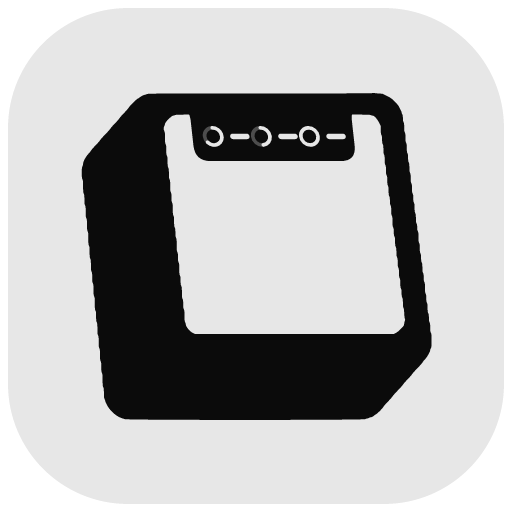
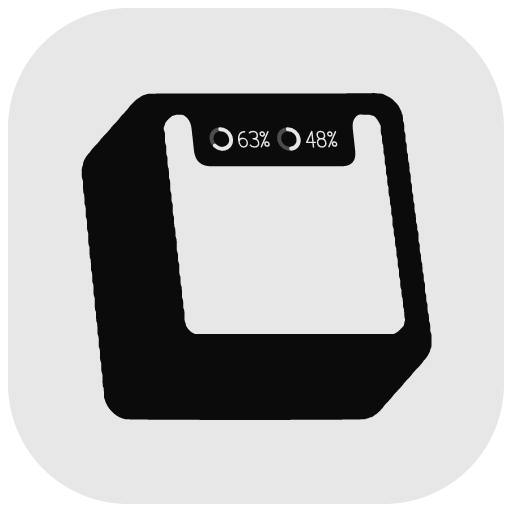
feat: notch shows two rings with real 63%/48% numbers; smooth flare into the face edge

diff --git a/src/lib/markShapes.ts b/src/lib/markShapes.ts
@@ -3,33 +3,35 @@ export const MARK = {
   "BODY_PATH": "M 456.4 333.7 C 456.1 333.9, 420.4 334, 370 334 C 285 334, 284.1 334, 283 334.5 C 282.4 334.8, 281.7 335, 281.5 335 C 280.8 335, 278.6 336.1, 277.5 337 C 277 337.4, 276.3 337.9, 275.8 338.1 C 274.7 338.7, 269.6 343.8, 269 345 C 268.7 345.5, 267.2 347.3, 265.5 349 C 263.8 350.7, 262.3 352.5, 262 353 C 261.7 353.5, 260.2 355.3, 258.5 357 C 256.8 358.7, 255.3 360.5, 255 361 C 254.7 361.5, 252.9 363.6, 251 365.5 C 249.1 367.4, 247.3 369.5, 247 370 C 246.7 370.5, 245.2 372.3, 243.5 374 C 241.8 375.7, 240.3 377.5, 240 378 C 239.8 378.5, 238.9 379.6, 238 380.5 C 236.1 382.5, 234 386.4, 234 388 C 234 388.6, 233.8 389.5, 233.5 390 C 233.1 390.9, 233 391.5, 233 395 C 233 398.5, 233.1 399.1, 233.5 400 C 233.9 400.9, 234 401.5, 234 405.5 C 234 409.5, 234.1 410.1, 234.5 411 C 234.9 411.8, 235 412.5, 235 415.5 C 235 418.5, 235.1 419.2, 235.5 420 C 235.9 420.9, 236 421.5, 236 425 C 236 428.5, 236.1 429.1, 236.5 430 C 236.9 430.9, 237 431.5, 237 435 C 237 438.5, 237.1 439.1, 237.5 440 C 237.9 440.9, 238 441.5, 238 445.5 C 238 449.5, 238.1 450.1, 238.5 451 C 238.9 451.9, 239 452.5, 239 456 C 239 459.5, 239.1 460.1, 239.5 461 C 239.9 461.9, 240 462.5, 240 466 C 240 469.5, 240.1 470.1, 240.5 471 C 240.9 471.8, 241 472.5, 241 475.5 C 241 478.5, 241.1 479.2, 241.5 480 C 241.9 480.9, 242 481.5, 242 485 C 242 488.5, 242.1 489.1, 242.5 490 C 242.9 490.9, 243 491.5, 243 495.5 C 243 499.5, 243.1 500.1, 243.5 501 C 243.9 501.8, 244 502.5, 244 505.5 C 244 508.5, 244.1 509.2, 244.5 510 C 244.9 510.9, 245 511.5, 245 515 C 245 518.5, 245.1 519.1, 245.5 520 C 245.9 520.9, 246 521.5, 246 525 C 246 528.5, 246.1 529.1, 246.5 530 C 246.9 530.9, 247 531.5, 247 535 C 247 538.5, 247.1 539.1, 247.5 540 C 247.9 540.8, 248 541.5, 248 544.5 C 248 547.5, 248.1 548.2, 248.5 549 C 248.9 549.9, 249 550.5, 249 554.5 C 249 558.5, 249.1 559.1, 249.5 560 C 249.9 560.8, 250 561.5, 250 564.5 C 250 567.5, 250.1 568.2, 250.5 569 C 250.8 569.5, 251 570.2, 251 570.5 C 251 570.8, 251.6 572.1, 252.3 573.5 C 254.1 577.1, 257.9 580.9, 261.5 582.8 C 262.9 583.4, 264.2 584, 264.5 584 C 264.7 584, 265.4 584.2, 266 584.5 C 267.8 585.3, 449.2 585.3, 451 584.5 C 451.6 584.2, 452.3 584, 452.5 584 C 452.8 584, 453.5 583.8, 454 583.5 C 454.5 583.2, 455.2 583, 455.6 583 C 455.9 583, 456.7 582.6, 457.3 582.2 C 457.9 581.7, 458.7 581.1, 459.1 580.9 C 460.3 580.3, 464.4 576.2, 465 575 C 465.3 574.5, 466.8 572.7, 468.5 571 C 470.2 569.3, 471.7 567.5, 472 567 C 472.3 566.5, 474.1 564.4, 476 562.5 C 477.9 560.6, 479.7 558.5, 480 558 C 480.3 557.5, 481.8 555.7, 483.5 554 C 485.2 552.3, 486.7 550.5, 487 550 C 487.3 549.5, 489.1 547.4, 491 545.5 C 492.9 543.6, 494.7 541.5, 495 541 C 495.2 540.5, 496.1 539.4, 497 538.5 C 498.6 536.8, 501 532.6, 501 531.5 C 501 531.2, 501.2 530.5, 501.5 530 C 502 529.1, 502 528.5, 502 524 C 502 519.5, 502 518.9, 501.5 518 C 501.1 517.2, 501 516.5, 501 514 C 501 511.5, 500.9 510.8, 500.5 510 C 500.1 509.2, 500 508.5, 500 506.5 C 500 504.5, 499.9 503.8, 499.5 503 C 499.1 502.2, 499 501.5, 499 499 C 499 496.5, 498.9 495.8, 498.5 495 C 498.1 494.2, 498 493.5, 498 491.5 C 498 489.5, 497.9 488.8, 497.5 488 C 497.1 487.2, 497 486.5, 497 483.5 C 497 480.5, 496.9 479.8, 496.5 479 C 496.1 478.2, 496 477.5, 496 475.5 C 496 473.5, 495.9 472.8, 495.5 472 C 495.1 471.2, 495 470.5, 495 468 C 495 465.5, 494.9 464.8, 494.5 464 C 494.1 463.2, 494 462.5, 494 460.5 C 494 458.5, 493.9 457.8, 493.5 457 C 493.1 456.2, 493 455.5, 493 453 C 493 450.5, 492.9 449.8, 492.5 449 C 492.1 448.2, 492 447.5, 492 444.5 C 492 441.5, 491.9 440.8, 491.5 440 C 491.1 439.3, 491 438.5, 491 437 C 491 435.5, 490.9 434.7, 490.5 434 C 490.1 433.2, 490 432.5, 490 430 C 490 427.5, 489.9 426.8, 489.5 426 C 489.1 425.2, 489 424.5, 489 422 C 489 419.5, 488.9 418.8, 488.5 418 C 488.1 417.2, 488 416.5, 488 414.5 C 488 412.5, 487.9 411.8, 487.5 411 C 487.1 410.2, 487 409.5, 487 407 C 487 404.5, 486.9 403.8, 486.5 403 C 486.1 402.2, 486 401.5, 486 399 C 486 396.5, 485.9 395.8, 485.5 395 C 485.1 394.2, 485 393.5, 485 391 C 485 388.5, 484.9 387.8, 484.5 387 C 484.1 386.2, 484 385.5, 484 383.5 C 484 381.5, 483.9 380.8, 483.5 380 C 483.1 379.2, 483 378.5, 483 376 C 483 373.5, 482.9 372.8, 482.5 372 C 482.1 371.2, 482 370.5, 482 368 C 482 365.5, 481.9 364.8, 481.5 364 C 481.1 363.2, 481 362.5, 481 360 C 481 357.5, 480.9 356.8, 480.5 356 C 480.1 355.3, 480 354.5, 480 353 C 480 351.5, 479.9 350.7, 479.5 350 C 479.2 349.5, 479 348.8, 479 348.5 C 479 348.2, 478.4 346.9, 477.7 345.5 C 476.6 343.3, 476.2 342.7, 473.7 340.2 C 471.1 337.6, 470.7 337.4, 467.6 335.8 L 464.4 334.2 461.5 334 C 459.9 333.9, 458.2 333.7, 457.8 333.6 C 457.3 333.6, 456.7 333.6, 456.4 333.7",
   "FACE_PATH": "M 305 350.5 C 304.4 350.8, 303.7 351, 303.4 351 C 302.1 351, 297 356.1, 297 357.4 C 297 357.8, 296.8 358.5, 296.5 359 C 296.2 359.5, 296 360.4, 296 361 C 296 361.6, 296.2 362.5, 296.5 363 C 296.9 363.9, 297 364.5, 297 368 C 297 371.5, 297.1 372.1, 297.5 373 C 297.9 373.8, 298 374.5, 298 377.5 C 298 380.5, 298.1 381.2, 298.5 382 C 298.9 382.8, 299 383.5, 299 386.5 C 299 389.5, 299.1 390.2, 299.5 391 C 299.9 391.8, 300 392.5, 300 395.5 C 300 398.5, 300.1 399.2, 300.5 400 C 300.9 400.9, 301 401.5, 301 405 C 301 408.5, 301.1 409.1, 301.5 410 C 301.9 410.8, 302 411.5, 302 414 C 302 416.5, 302.1 417.2, 302.5 418 C 302.9 418.9, 303 419.5, 303 423 C 303 426.5, 303.1 427.1, 303.5 428 C 303.9 428.8, 304 429.5, 304 432.5 C 304 435.5, 304.1 436.2, 304.5 437 C 304.9 437.8, 305 438.5, 305 441 C 305 443.5, 305.1 444.2, 305.5 445 C 305.9 445.9, 306 446.5, 306 450.5 C 306 454.5, 306.1 455.1, 306.5 456 C 306.9 456.8, 307 457.5, 307 460 C 307 462.5, 307.1 463.2, 307.5 464 C 307.9 464.9, 308 465.5, 308 469 C 308 472.5, 308.1 473.1, 308.5 474 C 308.9 474.8, 309 475.5, 309 478 C 309 480.5, 309.1 481.2, 309.5 482 C 309.9 482.9, 310 483.5, 310 487 C 310 490.5, 310.1 491.1, 310.5 492 C 310.9 492.8, 311 493.5, 311 496 C 311 498.5, 311.1 499.2, 311.5 500 C 311.9 500.9, 312 501.5, 312 505 C 312 508.5, 312.1 509.1, 312.5 510 C 312.8 510.5, 313 511.2, 313 511.5 C 313 513.4, 316.1 517.1, 318.6 518.3 L 320.1 519 396.5 519 L 472.9 519 474.4 518.3 C 475.3 517.8, 476.6 516.9, 477.9 515.6 C 480.7 512.8, 480.8 512.6, 481 511 C 481.1 510.3, 481.3 509.3, 481.5 508.8 C 481.8 508.1, 481.8 507.9, 481.5 507.2 C 481.3 506.7, 481.1 505, 481 503 C 480.9 500.5, 480.8 499.4, 480.4 498.8 C 480.1 498.2, 480 497.4, 480 495 C 480 492.5, 479.9 491.8, 479.5 491 C 479.1 490.2, 479 489.5, 479 487.5 C 479 485.5, 478.9 484.8, 478.5 484 C 478.1 483.2, 478 482.5, 478 480 C 478 477.5, 477.9 476.8, 477.5 476 C 477.1 475.2, 477 474.5, 477 472 C 477 469.5, 476.9 468.8, 476.5 468 C 476.1 467.2, 476 466.5, 476 464 C 476 461.5, 475.9 460.8, 475.5 460 C 475.1 459.2, 475 458.5, 475 456 C 475 453.5, 474.9 452.8, 474.5 452 C 474.1 451.2, 474 450.5, 474 448 C 474 445.5, 473.9 444.8, 473.5 444 C 473.1 443.2, 473 442.5, 473 440.5 C 473 438.5, 472.9 437.8, 472.5 437 C 472.1 436.2, 472 435.5, 472 432.5 C 472 429.5, 471.9 428.8, 471.5 428 C 471.1 427.2, 471 426.5, 471 424 C 471 421.5, 470.9 420.8, 470.5 420 C 470.1 419.2, 470 418.5, 470 416.5 C 470 414.5, 469.9 413.8, 469.5 413 C 469.1 412.2, 469 411.5, 469 409 C 469 406.5, 468.9 405.8, 468.5 405 C 468.1 404.2, 468 403.5, 468 401 C 468 398.5, 467.9 397.8, 467.5 397 C 467.1 396.2, 467 395.5, 467 393 C 467 390.5, 466.9 389.8, 466.5 389 C 466.1 388.2, 466 387.5, 466 385 C 466 382.5, 465.9 381.8, 465.5 381 C 465.1 380.2, 465 379.5, 465 377 C 465 374.5, 464.9 373.8, 464.5 373 C 464.1 372.2, 464 371.5, 464 369.5 C 464 367.5, 463.9 366.8, 463.5 366 C 463.1 365.2, 463 364.5, 463 362 L 463 359 461.8 356.7 C 460.2 353.5, 458 351, 456.6 351 C 456.3 351, 455.6 350.8, 455 350.5 C 453.2 349.7, 306.8 349.7, 305 350.5",
   "NOTCH": {
-    "d": "M308 346Q316 346 316 354V374Q316 386 328 386H428Q440 386 440 374V354Q440 346 448 346Z",
+    "d": "M298 346V348C308 348 316 350.5 316 361V378Q316 390 328 390H428Q440 390 440 378V361C440 350.5 448 348 458 348V346Z",
     "lean": 0.11,
     "top": 348,
+    "r": 7.5,
+    "w": 3,
+    "k": 1.75,
+    "gw": 0.62,
+    "adv": 4.8,
+    "glyphs": {
+      "3": "M0.4 0.8C1 0.3 1.6 0.2 2 0.2C3.2 0.2 3.8 1 3.8 1.8C3.8 2.8 3 3.4 1.8 3.4C3 3.4 4 4 4 5.2C4 6.4 3.2 7 2 7C1.2 7 0.6 6.8 0.2 6.2",
+      "4": "M3 7V0.2L0.2 5H4",
+      "6": "M3.2 0.3C1 0.3 0.2 2 0.2 4C0.2 6.2 1 7 2 7C3.2 7 3.8 6 3.8 5C3.8 4 3 3.2 2 3.2C1.2 3.2 0.5 3.7 0.2 4.5",
+      "8": "M2 3.4C1 3.4 0.4 2.8 0.4 1.8C0.4 0.8 1 0.2 2 0.2C3 0.2 3.6 0.8 3.6 1.8C3.6 2.8 3 3.4 2 3.4C0.8 3.4 0.2 4.2 0.2 5.2C0.2 6.3 1 7 2 7C3 7 3.8 6.3 3.8 5.2C3.8 4.2 3.2 3.4 2 3.4Z",
+      "%": "M0.3 1.3a0.9 0.9 0 1 0 1.8 0a0.9 0.9 0 1 0 -1.8 0M1.9 5.7a0.9 0.9 0 1 0 1.8 0a0.9 0.9 0 1 0 -1.8 0M3.8 0.3L0.2 6.9"
+    },
     "items": [
       {
-        "cx": 332,
-        "cy": 367,
-        "pct": 63
+        "cx": 338,
+        "cy": 369,
+        "pct": 63,
+        "text": "63%"
       },
       {
-        "cx": 369,
-        "cy": 367,
-        "pct": 48
-      },
-      {
-        "cx": 406,
-        "cy": 367,
-        "pct": 100
+        "cx": 390,
+        "cy": 369,
+        "pct": 48,
+        "text": "48%"
       }
-    ],
-    "r": 6.6,
-    "w": 2.8,
-    "bar": {
-      "dx": 13,
-      "w": 15,
-      "h": 4.2
-    }
+    ]
   },
   "VIEW": {
     "x": 224,

diff --git a/src/components/Logo.tsx b/src/components/Logo.tsx
@@ -47,7 +47,7 @@ export const Logo = memo(
             <path d={FACE_PATH} fill="#000" />
             <g transform={`matrix(1 0 ${NOTCH.lean} 1 ${-NOTCH.lean * NOTCH.top} 0)`}>
               <path d={NOTCH.d} fill="#fff" />
-              {NOTCH.items.map(({ cx, cy, pct }) => (
+              {NOTCH.items.map(({ cx, cy, pct, text }) => (
                 <g key={cx}>
                   {pct >= 100 ? (
                     <circle cx={cx} cy={cy} r={NOTCH.r} fill="none" stroke="#000" strokeWidth={NOTCH.w} />
@@ -57,7 +57,18 @@ export const Logo = memo(
                       <path d={arc(cx, cy, NOTCH.r, pct)} fill="none" stroke="#000" strokeWidth={NOTCH.w} strokeLinecap="round" />
                     </>
                   )}
-                  <rect x={cx + NOTCH.bar.dx} y={cy - NOTCH.bar.h / 2} width={NOTCH.bar.w} height={NOTCH.bar.h} rx={NOTCH.bar.h / 2} fill="#000" />
+                  {[...text].map((ch, i) => (
+                    <path
+                      key={i}
+                      d={NOTCH.glyphs[ch as keyof typeof NOTCH.glyphs]}
+                      transform={`translate(${cx + NOTCH.r + NOTCH.w / 2 + 4 + i * NOTCH.adv * NOTCH.k} ${cy - 3.5 * NOTCH.k}) scale(${NOTCH.k})`}
+                      fill="none"
+                      stroke="#000"
+                      strokeWidth={NOTCH.gw}
+                      strokeLinecap="round"
+                      strokeLinejoin="round"
+                    />
+                  ))}
                 </g>
               ))}
             </g>
